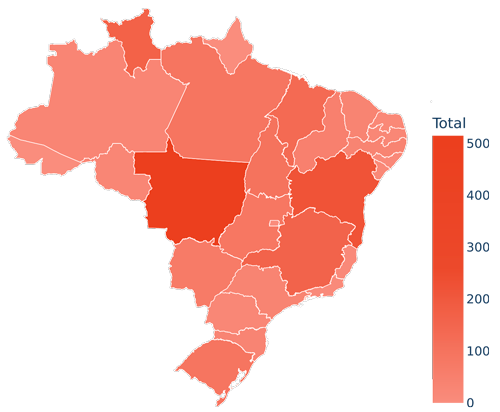
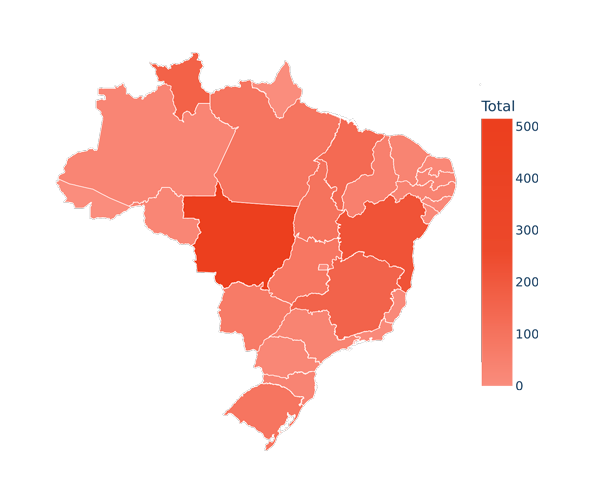
Alterações no comportamento responsivo
Alterações no comportamento responsivo

Changed region(s): [[0.0, 0.0, 0.99, 0.9903], [0.45, 0.5243, 0.48, 0.5534]]

diff --git a/webapp/painel-do-fogo/paineis/2023-01.html b/webapp/painel-do-fogo/paineis/2023-01.html
@@ -29,10 +29,7 @@
       type="text/javascript"
       src="https://www.gstatic.com/charts/loader.js"
     ></script>
-    <script
-      type="text/javascript"
-      src="js/main.js"
-    ></script>
+    <script type="text/javascript" src="js/main.js"></script>
   </head>
   <body>
     <div class="container">
@@ -56,7 +53,7 @@
           </div>
 
           <div class="box-content">
-            <img src="img/mapa-brasil.jpg" alt="Mapa de focos de fogo" />
+            <div class="box-content__mapa-focos"></div>
             <p>
               Mapa de distribuição espacial dos focos do satélite de referência
               (AQUA_M-T) acumulados para o Brasil.
@@ -67,10 +64,7 @@
         <div class="box2">
           <div class="header-box"><h3>Mapa de qtd. de focos</h3></div>
           <div class="box-content">
-            <img
-              src="img/map-estados-focos.png"
-              alt="Mapa de quantidade de focos de fogo"
-            />
+            <div class="box-content__mapa-qtd-focos"></div>
           </div>
         </div>
         <div class="box3">
@@ -78,30 +72,24 @@
             <h3>Mapa de valor médio de Risco de Fogo</h3>
           </div>
           <div class="box-content">
-            <img
-              src="img/map-risco-fogo.png"
-              alt="Mapa de valor médio de Risco de Fogo"
-            />
+            <div class="box-content__mapa-risco-fogo"></div>
           </div>
         </div>
         <div class="box4">
           <div class="header-box"><h3>Focos por estado</h3></div>
-          <div id="grafico-barras" class="box-content">
-          </div>
+          <div id="grafico-barras" class="box-content"></div>
         </div>
         <div class="box5">
           <div class="header-box">
             <h3>Focos por bioma</h3>
           </div>
-          <div id="grafico-rosca" class="box-content">
-          </div>
+          <div id="grafico-rosca" class="box-content"></div>
         </div>
         <div class="box6">
           <div class="header-box">
             <h3>Quantidade diária da Ocorrência de focos de fogo</h3>
           </div>
-          <div id="grafico-colunas" class="box-content">
-          </div>
+          <div id="grafico-colunas" class="box-content"></div>
         </div>
       </main>
 

diff --git a/webapp/painel-do-fogo/paineis/css/main.css b/webapp/painel-do-fogo/paineis/css/main.css
@@ -176,7 +176,7 @@ main > div {
 
 /* Define estilos do conteúdo dos boxes */
 .box-content {
-  width:100%;
+  width: 100%;
   height: 95%;
   display: flex;
   flex-direction: column;
@@ -184,14 +184,39 @@ main > div {
   z-index: 0;
 }
 .box-content img {
-  max-width: 100%;
-  max-height: 100%;
+  max-width: 500px;
+  max-height: 90%;
   margin-top: 0.75rem;
+}
+.box-content__mapa-focos,
+.box-content__mapa-qtd-focos,
+.box-content__mapa-risco-fogo {
+  width: 100%;
+  height: 100%;
+  background-size: cover;
+  background-position: center;
+  background-repeat: no-repeat;
+}
+.box-content__mapa-focos {
+  background-image: url("../img/mapa-brasil.jpg");
+}
+.box-content__mapa-qtd-focos {
+  background-image: url("../img/map-estados-focos.png");
+}
+.box-content__mapa-risco-fogo {
+  background-image: url("../img/map-risco-fogo.png");
 }
 .box-content p {
   font-family: "Roboto", sans-serif;
   font-size: 0.7rem;
   padding-top: 0.5rem;
+}
+.box1,
+.box2,
+.box3,
+.box4,
+.box5 {
+  height: 90vw;
 }
 .box1 {
   grid-area: mapa01;
@@ -210,6 +235,7 @@ main > div {
 }
 .box6 {
   grid-area: graph03;
+  height: 50vw;
 }
 .btn-group,
 .btn-group-vertical {
@@ -259,6 +285,16 @@ main > div {
       "graph03 graph03";
     grid-template-columns: 1fr 1fr;
     gap: 1rem;
+  }
+
+  .box2,
+  .box3,
+  .box4,
+  .box5 {
+    height: 40vw;
+  }
+  .box6 {
+    height: 25vw;
   }
   .expediente {
     flex-direction: row;
@@ -349,6 +385,7 @@ main > div {
     display: inline;
     margin: 0;
   }
+
   .box1,
   .box2,
   .box3,
@@ -358,6 +395,7 @@ main > div {
     position: relative;
     display: flex;
     justify-content: center;
+    height: auto;
   }
   .box1 > div:nth-child(1),
   .box2 > div:nth-child(1),
@@ -383,6 +421,7 @@ main > div {
   }
   .box1 p {
     font-size: 0.65rem;
+    text-align: center;
   }
   .expediente > div:first-child {
     flex-basis: 65%;
